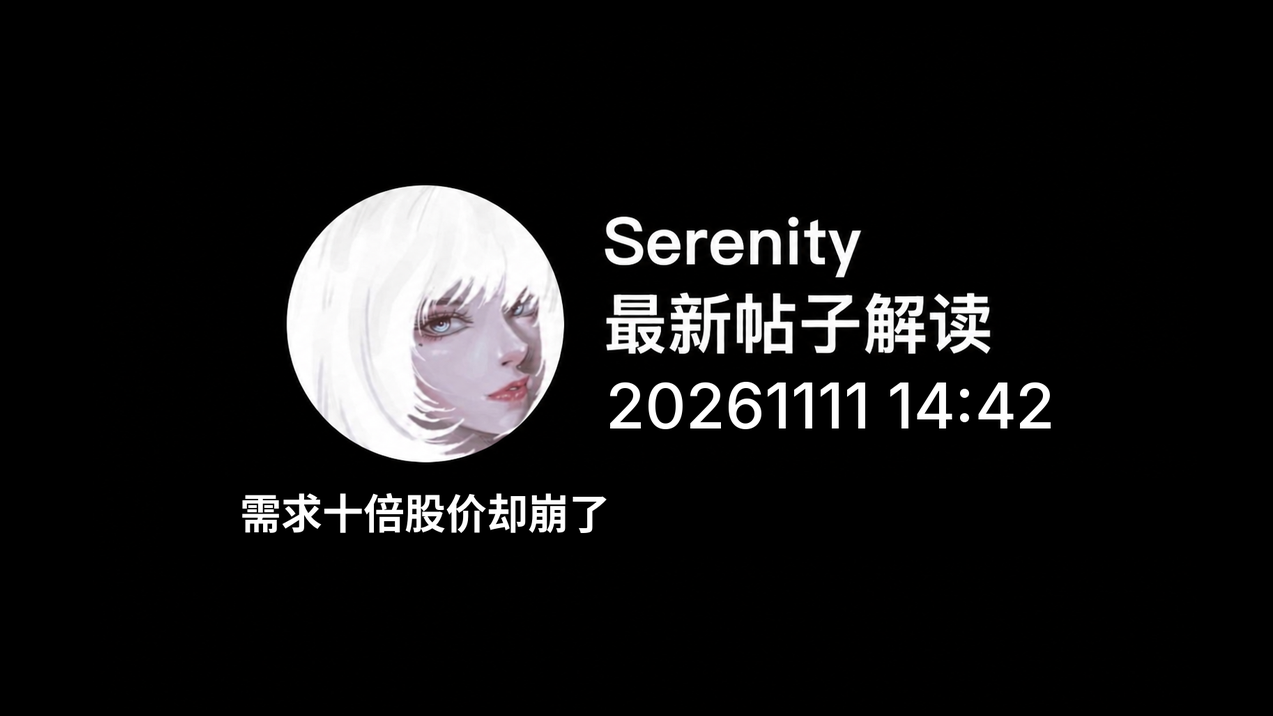
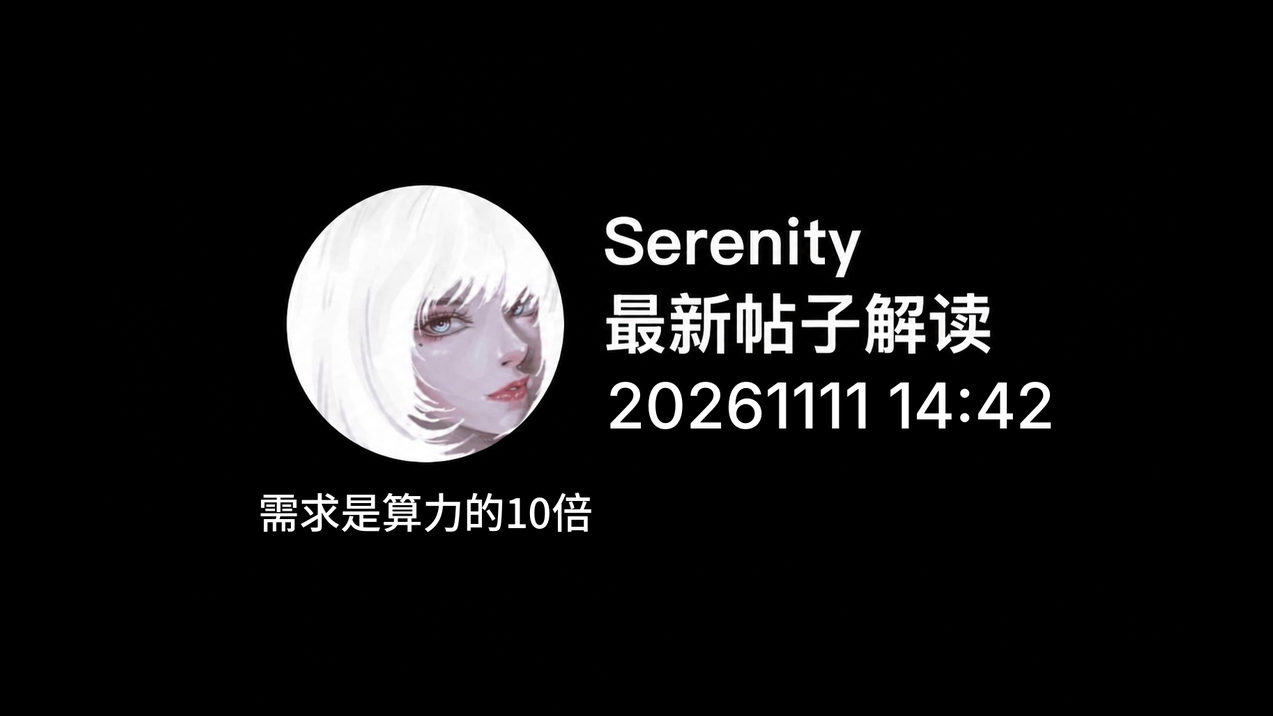
20261111_crwv: 改用 Claude 封面与单页拼图，并更新文案
标题改为「AI股在暴跌，需求却是产能10倍」。配音稿按 Claude 原稿，仅补「日本时间」。充电专属关闭。未纳入成片 mp4。

diff --git a/serenity/posts/20261111_crwv/文案.md b/serenity/posts/20261111_crwv/文案.md
@@ -1,36 +1,28 @@
 # 2026-11-11 CoreWeave 财报（1 篇）
 
-充电建议：设成充电视频，试看时长为视频总长的 30%。理由：财报里涨价、GPU 租金、DDTL 融资利率这些术语和数据比较多，和 11/08 那篇 NBIS 新云的情况一样，属于术语多的供应链/财报内容。如果想蹭当晚 CRWV 盘前大涨的热度、多拿播放，也可以改成免费。
+充电建议：免费（充电专属关闭）。Claude 建议做免费视频。
 
 原帖：https://x.com/aleabitoreddit/status/2120391635737649423
-发帖：2026年11月11日 14:42（日本时间）= 美东 11月11日 00:42（CoreWeave 11月10日盘后发财报之后）
-互动：15.3万查看 · 98 回复 · 64 转帖 · 1,049 喜欢
+发帖：12:42 AM ET = 14:42 JST（2026年11月11日）
 
-## 01 CoreWeave 需求超产能 10 倍（14:42 · 15.3万 · 98/64/1049）　充电（试看 30%）
+## 01 CoreWeave 需求是产能 10 倍（14:42）　免费
 标题：
 ```plain text
-CoreWeave需求超产能10倍，Serenity：AI基建股却在崩
+AI股在暴跌，需求却是产能10倍
 ```
-封面标题（只在图里）：需求十倍股价却崩了
+封面标题（只在图里）：需求是算力的10倍
 
-配音稿：
+配音稿（与 Claude 原稿一致，唯一改动是在时间后加了「日本时间」）：
 ```plain text
-Serenity说，CoreWeave的合格需求，是可用产能的10倍，AI基础设施股却在暴跌。
-2026年11月11日，14点42分，日本时间。
-她解读的是CoreWeave的最新财报，以及对Nebius等新云公司的启示。
-她引用CoreWeave的原话：我们的合格需求，是可用产能的10倍。
-她列了五点：
-第一，对2028年产能的需求，已经是CoreWeave可用产能的好几倍。
-第二，CoreWeave在7月涨价百分之二十五，三季度晚些时候又涨了百分之十，四季度还会再涨。
-第三，Ampere和Hopper这些老款GPU，租赁价格环比上涨了百分之三十到五十。
-第四，融资条件更好了，预付款更多，新贷款利率降到百分之七到七点五。
-第五，预计2028年上半年，调整后净利润转正。
-她说，老款GPU的价格更高了，融资机制更好了，
-需求和供给严重失衡，需求是供给的10倍。
-她还说，CoreWeave自己的利率问题依然存在，
-但她认为其他新云公司的处境更好。
-她最后说，AI基础设施股在暴跌，需求却还在增长，这实在太离谱了。
-帖子配图是CoreWeave财报电话会文字稿的截图，高亮的就是需求是产能10倍那一句。
+Serenity说，AI基础设施股在暴跌，需求却在不断增长。2026年11月11日，14点42分，日本时间。CoreWeave刚发完财报，Serenity解读了它对Nebius等新兴云厂商的影响。她摘出了一句管理层的话：我们的合格需求，是可用产能的10倍。
+她整理了几个要点。第一，2028年产能的意向，已经是CoreWeave可用产能的好几倍。第二，CoreWeave 7月涨价25%，第三季度晚些时候又涨了10%，第四季度还会继续涨。第三，Ampere和Hopper这两代老款GPU，租价环比涨了30%到50%。第四，融资条件在改善，预付款更高，新贷款的利率降到了7%到7.5%。第五，预计2028年上半年，调整后净利润转正。
+她的总结是，价格在涨，尤其是老款GPU，融资条件在好转，需求是供给的10倍，供需严重失衡。她还说，CoreWeave自己有利率方面的问题，但她认为，其他新兴云厂商的处境要好一些。最后她说，AI基础设施股在暴跌，需求却还在增长，实在是太夸张了。她附了一段财报电话会的原话：客户对AI的用途越来越多，他们需要平台提供更多。这拓宽了我们的机会，加深了我们的客户关系。我们的合格需求是可用产能的10倍，一直到2027年底，2028年的需求已经是我们可用产能的好几倍，哪怕在我们把新产能投入使用之前。
 ```
 
-B站设置：分区资讯；标签 `CoreWeave`、`美股`、`serenity`、`投资`（备选 `AI`、`英伟达`）；4:3 和 16:9 封面都用封面图。
+## 核实说明（Claude）
+- CoreWeave 于 11 月 10 日发布财报（TIKR）。
+- 单季利息支出从 1.04 亿美元（2024 年三季度）升至 6.40 亿美元（2026 年二季度）。
+- 未核实：电话会文字稿；7 月涨价 25%、三季度后再涨 10%；老款 GPU 租价环比上涨 30%–50%；新贷款利率 7%–7.5%；调整后净利润在 2028 年上半年转正。
+- 发帖时间 12:42 AM ET = 14:42 JST。
+
+B站设置：分区资讯；标签 `CoreWeave`、`美股`、`serenity`、`投资`；4:3 和 16:9 封面都用封面图。充电专属关闭。

diff --git a/serenity/posts/README.md b/serenity/posts/README.md
@@ -12,4 +12,4 @@
 - 20261106：AAOI 财报点评一篇（充电·首选；6 张截图含轮播第二图），文案见 20261106/文案.md。
 - 20261107：四篇（Anthropic 年化收入破 800 亿；长期投资者与持仓；台韩中护盘措施；AST 自造火箭 Blacklift），全部建议免费，文案见 20261107/文案.md。
 - 20261108：五篇（美光长约/软银涡轮；年内收益 594%；新云公司 NBIS（充电·首选）；台积电否认 3D DRAM；NASA 月球基地 CLPS 2），文案见 20261108/文案.md。04 只显示“最后编辑”时间。
-- 20261111_crwv：一篇（CoreWeave 财报，需求超产能 10 倍；充电·试看 30%），文案见 20261111_crwv/文案.md。
+- 20261111_crwv：一篇（CoreWeave 财报，需求是产能 10 倍；免费），文案见 20261111_crwv/文案.md。封面与拼图改用 Claude 的两张图。
